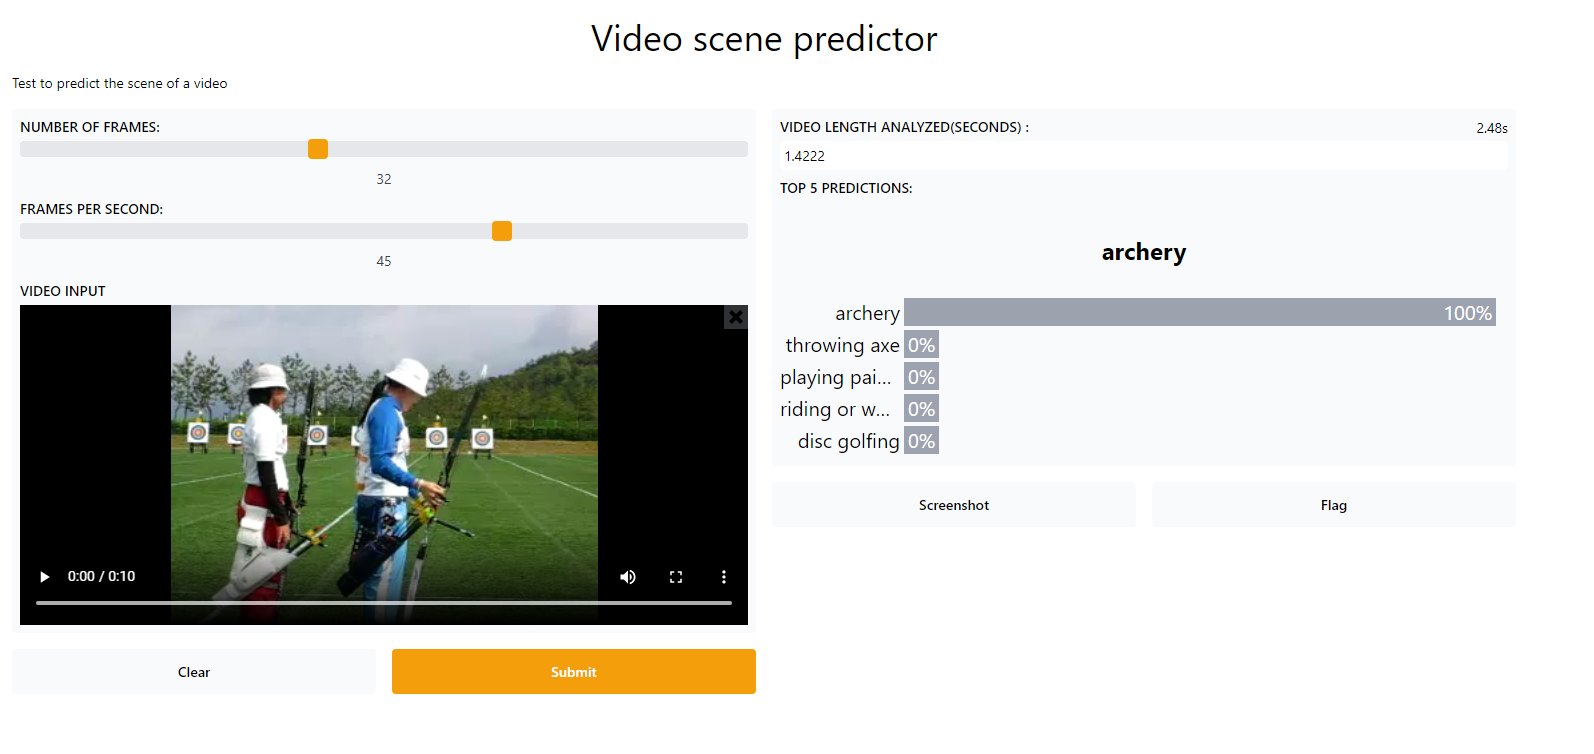
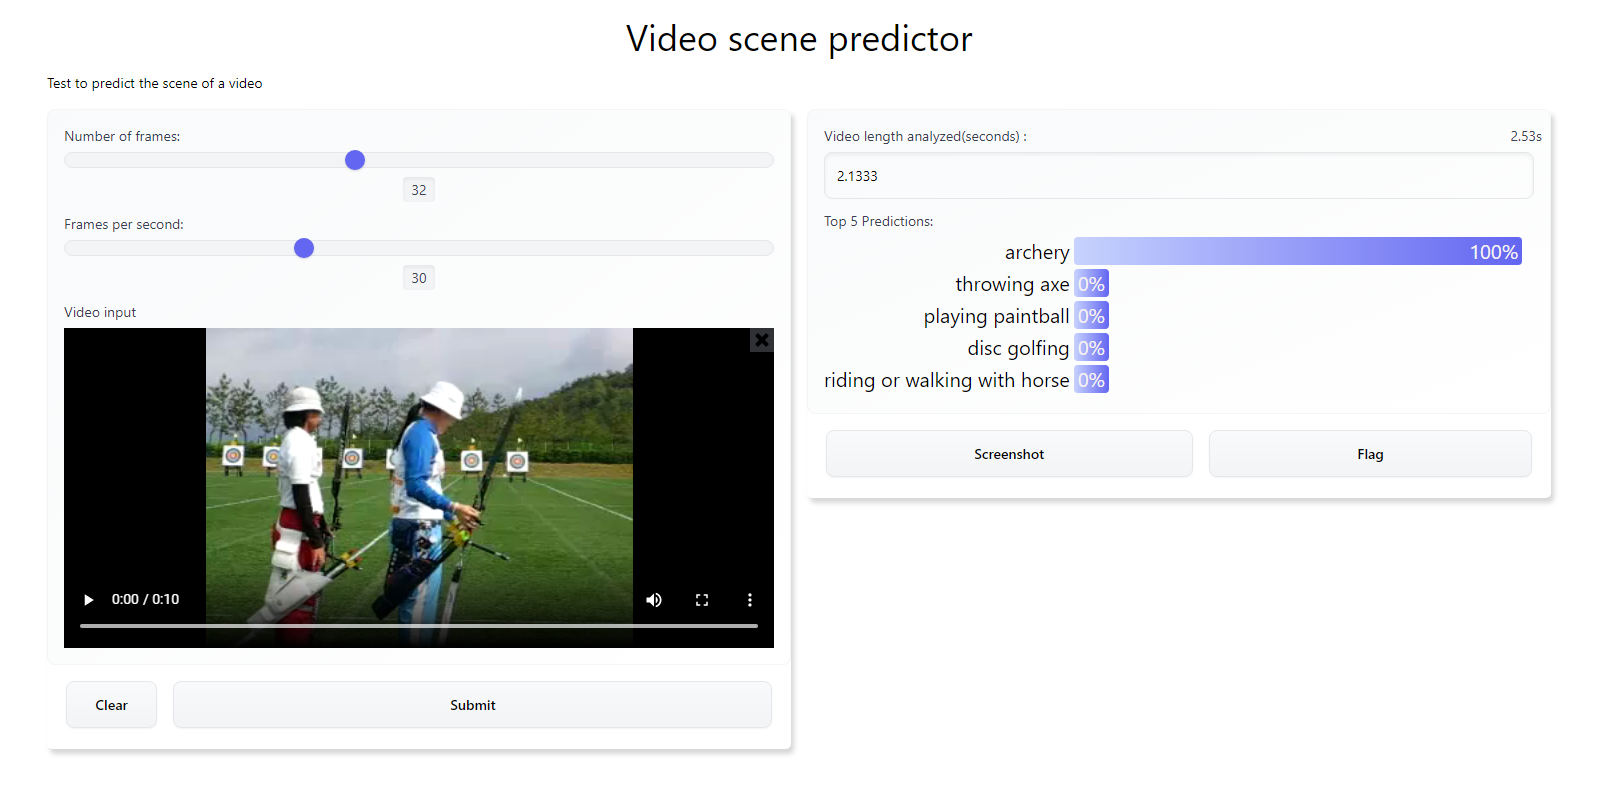
css inclusion and theme update

diff --git a/base.css b/base.css
@@ -1,0 +1,32 @@
+div .panel_buttons {
+    width: 95%;
+    margin:auto;
+    padding-bottom:5px;
+}
+
+.gradio_app .gradio_bg[theme=huggingface] .gradio_interface .output_label .confidence {
+    color: #f7f1f1;
+}
+
+.panel_button.submit {
+    /* background-color: #0076efc7 !important; */
+    width: 80% !important;
+}
+.panel_button.submit:hover {
+    /* background-color: #0081ef !important; */
+}
+/*
+.input_slider.range{
+    background-color: #0076efc7 !important;
+}
+*/
+
+div.labels {
+    max-width: 100% !important;
+
+}
+
+div .panel {
+    border-radius: 5px !important;
+    box-shadow: 3px 5px 5px #00000029 !important;
+}

diff --git a/main_file_input.py b/main_file_input.py
@@ -20,5 +20,7 @@ iface = gr.Interface(
     title = 'Video scene predictor',
     description='Test to predict the scene of a video',
 #    examples='C:/Users/alejandro.garcia/Desktop/VASS/Video Analysis/archery.mp4'
+    css = 'base.css',
+    theme = 'darkhuggingface'
 )
 iface.launch()

diff --git a/main_webcam.py b/main_webcam.py
@@ -20,5 +20,7 @@ iface = gr.Interface(
     title = 'Video scene predictor',
     description='Test to predict the scene of a video',
 #    examples='C:/Users/alejandro.garcia/Desktop/VASS/Video Analysis/archery.mp4'
+    css = 'base.css',
+    theme = 'darkhuggingface'
 )
 iface.launch()
